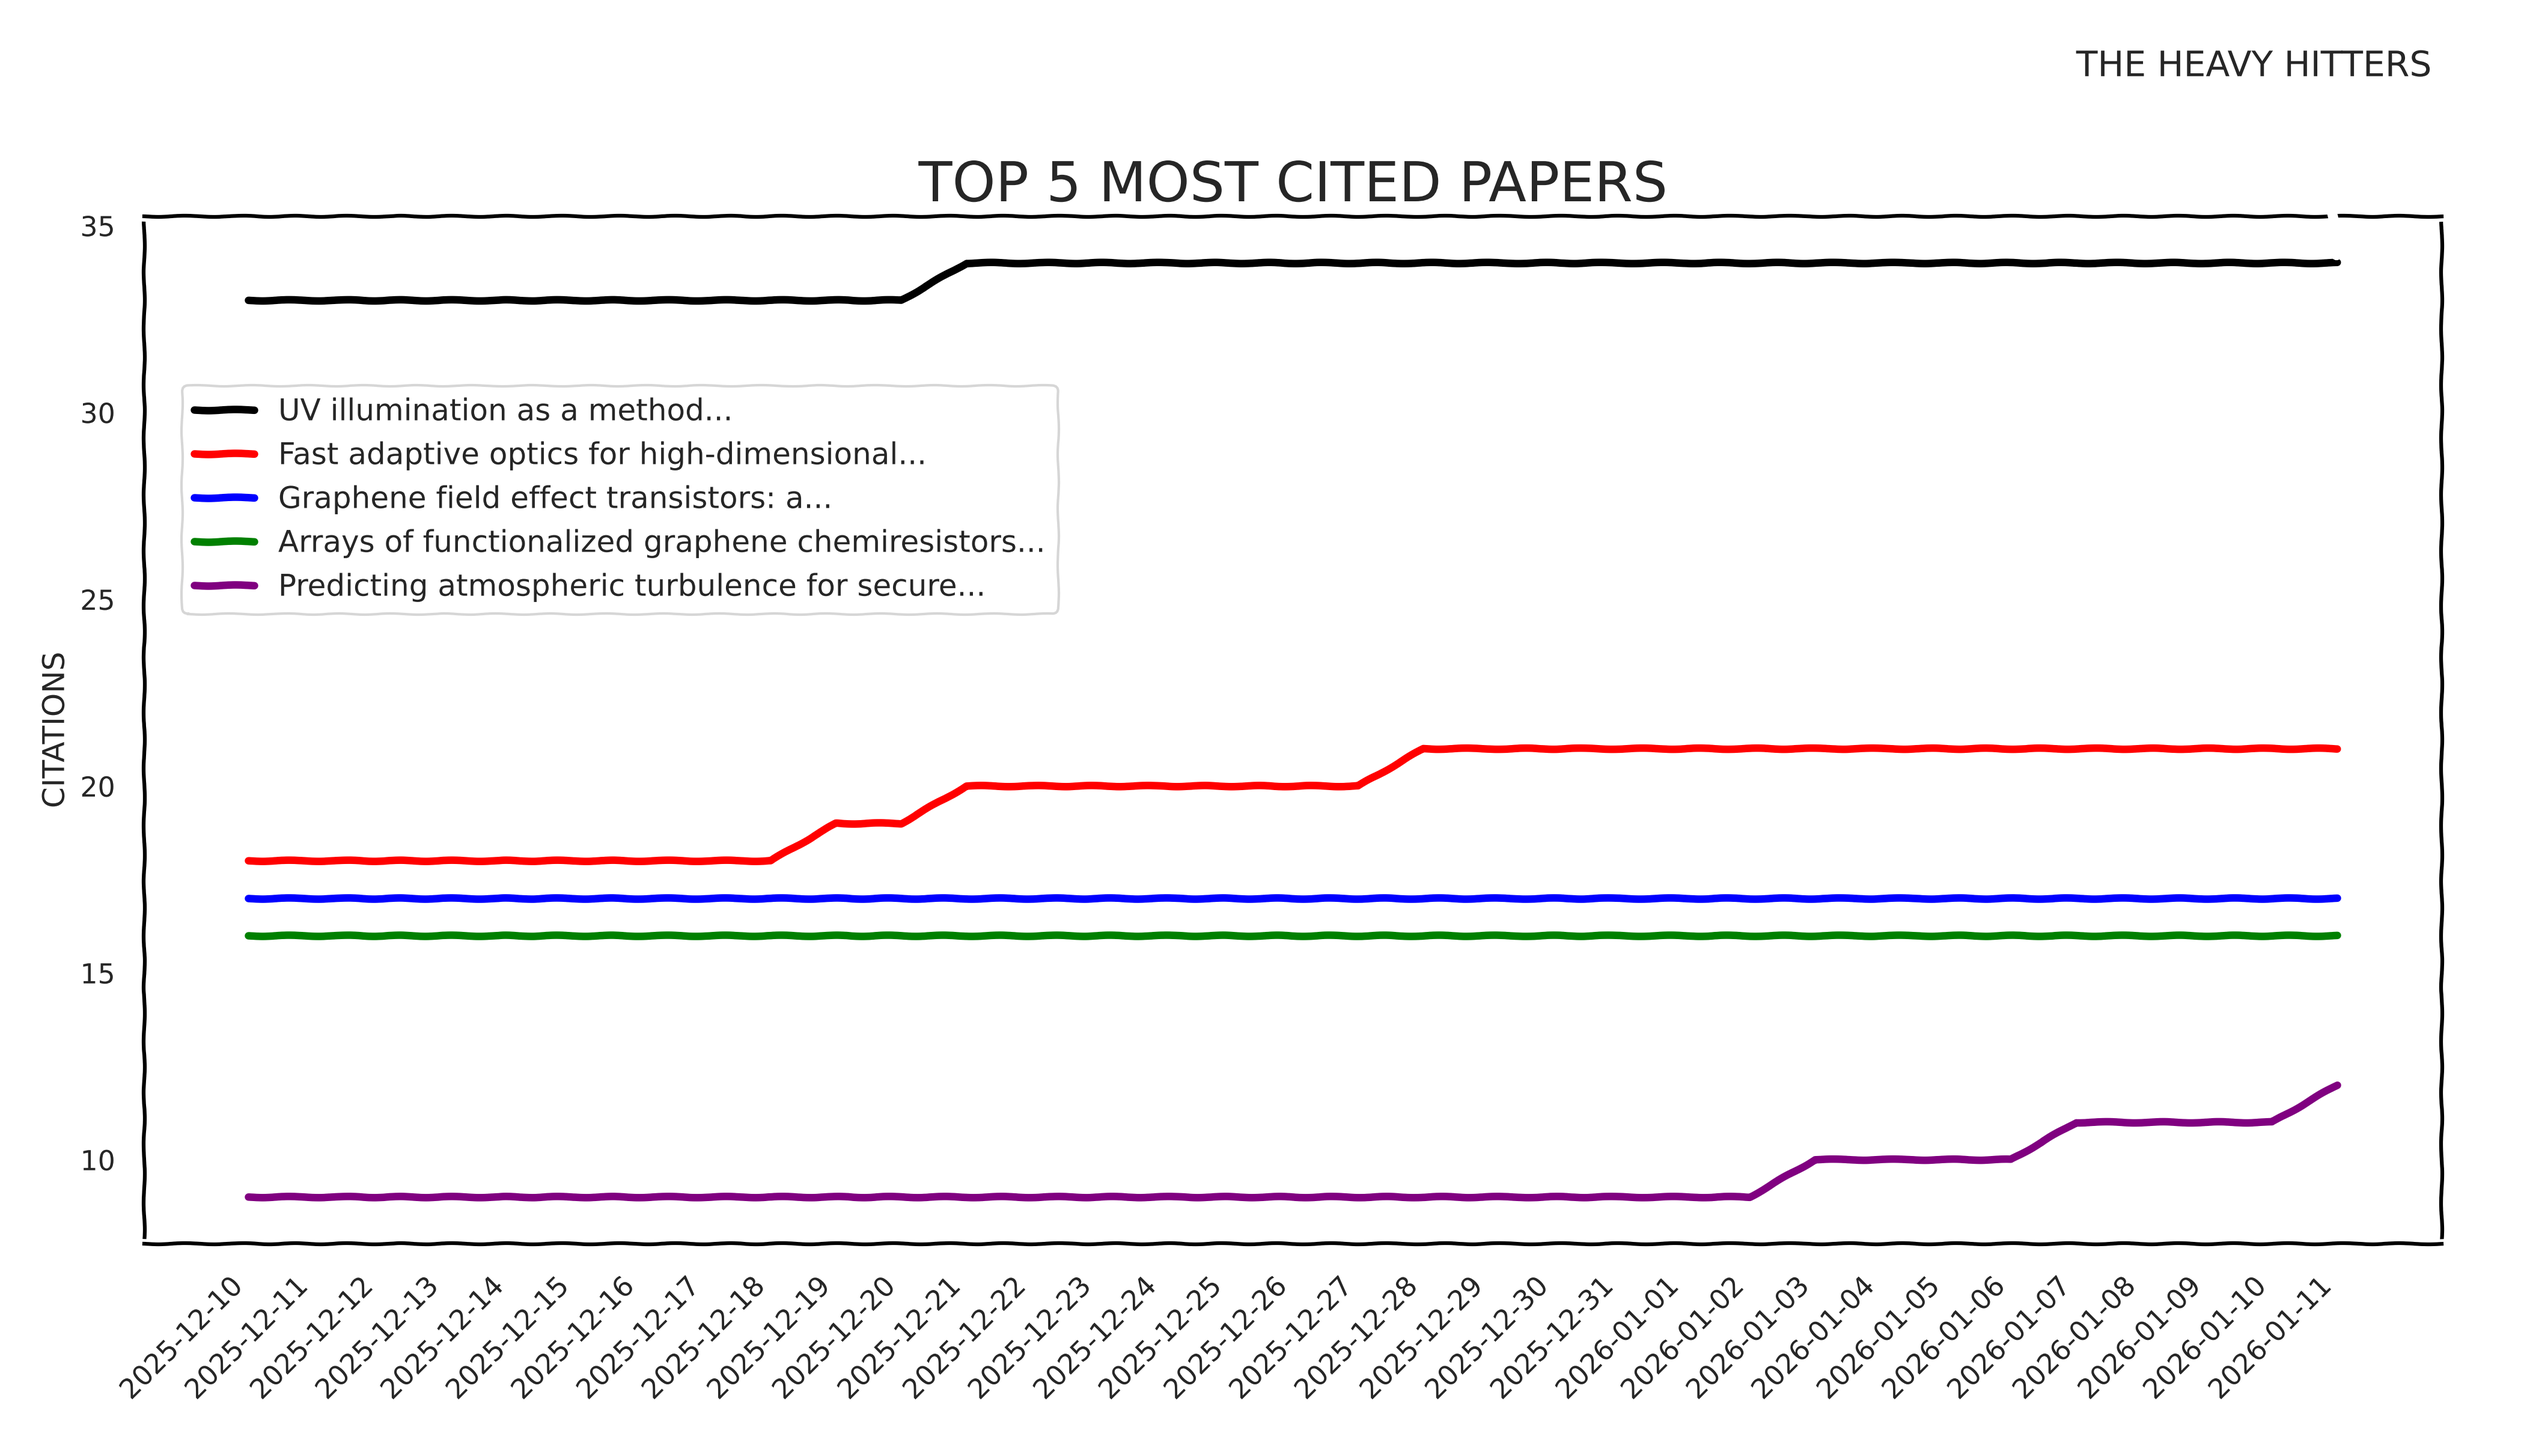
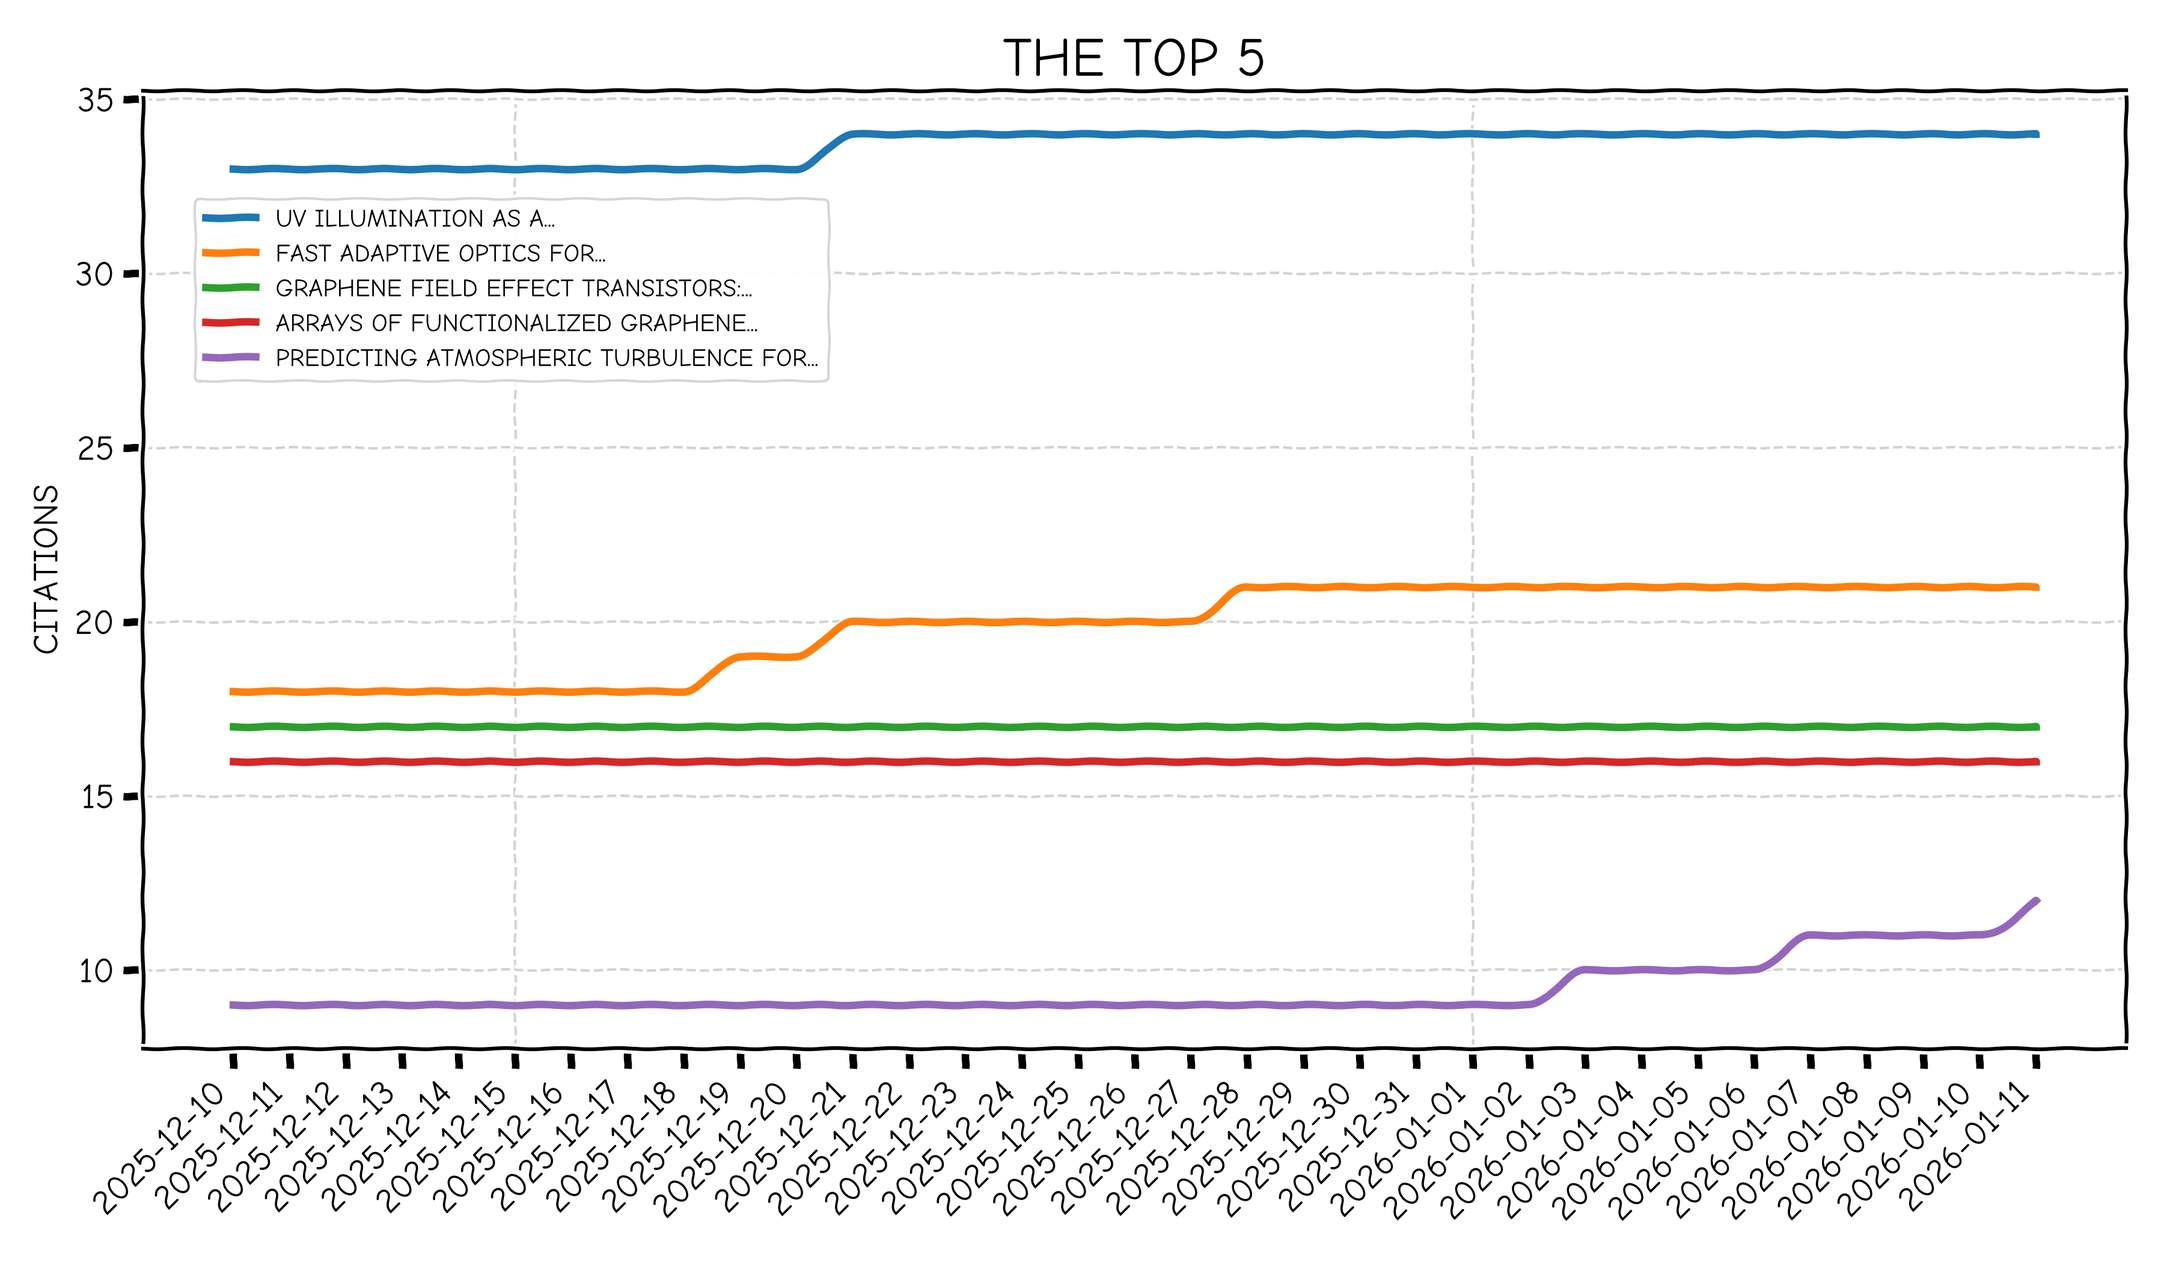
Removed redundant plots and updated plotting functions. added interpolation

diff --git a/plotting.py b/plotting.py
@@ -1,153 +1,126 @@
+import os
+import logging
 import pandas as pd
 import matplotlib.pyplot as plt
-import seaborn as sns 
-import os
-from datetime import date
-from matplotlib.ticker import MaxNLocator
-import logging
 import matplotlib.font_manager as fm
-
-# Silence font warnings
-logging.getLogger('matplotlib.font_manager').setLevel(logging.ERROR)
+import numpy as np
+from scipy.interpolate import PchipInterpolator
 
 # --- Configuration ---
-CSV_FILE = "citations_history.csv"
-WIDE_CSV_FILE = "citations_wide_format.csv"
-PLOT_FILE = "top_10_citations_plot.png"
-CUMULATIVE_PLOT_FILE = "cumulative_citations_plot.png"
-XKCD_PLOT_FILE = "cumulative_citations_xkcd.png"
-XKCD_TOP_5_FILE = "top_5_citations_xkcd.png"
-# ---------------------
+PATHS = {
+    "input": "citations_history.csv",
+    "wide_output": "citations_wide_format.csv",
+    "xkcd_cumulative": "cumulative_citations_xkcd.png",
+    "xkcd_top_5": "top_5_citations_xkcd.png"
+}
 
-def create_wide_csv():
-    if not os.path.exists(CSV_FILE):
-        print(f"Error: Long format file '{CSV_FILE}' not found. Run scrape.py first.")
-        return None
+# Standardized Figure Size for GitHub Display
+FIG_SIZE = (12, 7)
+DPI = 300
 
-    try:
-        df_long = pd.read_csv(CSV_FILE)
-        df_long['Date'] = df_long['Date'].astype(str)
-        df_wide = df_long.pivot(index='Title', columns='Date', values='Citations')
-        df_wide.to_csv(WIDE_CSV_FILE)
-        print(f"Successfully created WIDE format file: {WIDE_CSV_FILE}")
-        return df_wide
-    except Exception as e:
-        print(f"CRITICAL ERROR during file creation: {e}")
-        return None
+logging.basicConfig(level=logging.INFO, format='%(levelname)s: %(message)s')
+logging.getLogger('matplotlib.font_manager').setLevel(logging.ERROR)
 
-def get_best_xkcd_font():
-    """Returns the best available hand-drawn font name."""
-    available_fonts = [f.name for f in fm.fontManager.ttflist]
-    for f in ["Humor Sans", "Comic Neue", "xkcd", "Comic Sans MS"]:
-        if f in available_fonts:
-            return f
-    return "sans-serif"
+def get_data():
+    if not os.path.exists(PATHS["input"]):
+        logging.error(f"Source file {PATHS['input']} not found.")
+        return None, None
+    df_long = pd.read_csv(PATHS["input"])
+    df_long['Date'] = df_long['Date'].astype(str)
+    df_wide = df_long.pivot(index='Title', columns='Date', values='Citations')
+    df_wide.to_csv(PATHS["wide_output"])
+    df_cumulative = df_wide.T.fillna(0).sum(axis=1)
+    return df_wide, df_cumulative
 
-def generate_xkcd_cumulative_plot(df_cumulative):
-    try:
-        chosen_font = get_best_xkcd_font()
-        with plt.xkcd():
-            plt.rcParams.update({'font.family': chosen_font})
-            plt.figure(figsize=(12, 6))
-            plt.plot(range(len(df_cumulative)), df_cumulative['Cumulative Citations'].values, color='#007400', linewidth=5)
-            plt.title('LUKAS SCARFE: TOTAL CITATIONS', fontsize=25)
-            plt.xticks(range(len(df_cumulative)), df_cumulative.index, rotation=45, ha='right')
-            plt.tight_layout()
-            plt.savefig(XKCD_PLOT_FILE, dpi=300)
-            plt.close()
-            print(f"Successfully saved XKCD-style cumulative plot to {XKCD_PLOT_FILE}")
-    except Exception as e:
-        print(f"Error generating XKCD cumulative plot: {e}")
+def get_xkcd_font():
+    candidates = ["Humor Sans", "Comic Neue", "xkcd", "Comic Sans MS"]
+    available = {f.name for f in fm.fontManager.ttflist}
+    return next((f for f in candidates if f in available), "sans-serif")
 
-def generate_xkcd_top_5_plot(df_wide):
-    """Generates an XKCD-style plot for the top 5 papers."""
-    try:
-        chosen_font = get_best_xkcd_font()
+def format_title(title, max_words=4):
+    words = title.split()
+    return " ".join(words[:max_words]).upper() + ("..." if len(words) > max_words else "")
+
+def add_custom_grids(ax, x_labels):
+    """Adds light grey y-grid and vertical lines for the 1st and 15th."""
+    ax.grid(axis='y', color='lightgrey', linestyle='--', linewidth=1, zorder=0)
+    for i, date in enumerate(x_labels):
+        day = date.split('-')[-1].zfill(2)
+        if day == '01' or day == '15':
+            ax.axvline(x=i, color='lightgrey', linestyle='--', linewidth=1, zorder=0)
+
+def smooth_monotonic(x, y):
+    """Interpolates using PCHIP to prevent overshoot/oscillation."""
+    x_new = np.linspace(min(x), max(x), 500)
+    pchip = PchipInterpolator(x, y)
+    y_smooth = pchip(x_new)
+    return x_new, y_smooth
+
+def plot_cumulative_xkcd(df_cumulative):
+    with plt.xkcd():
+        fig, ax = plt.subplots(figsize=FIG_SIZE)
+        plt.rcParams.update({'font.family': get_xkcd_font()})
+        
+        x_values = np.array(range(len(df_cumulative)))
+        y_values = df_cumulative.values
+        x_smooth, y_smooth = smooth_monotonic(x_values, y_values)
+        
+        ax.plot(x_smooth, y_smooth, color='green', linewidth=4, zorder=3)
+        
+        add_custom_grids(ax, df_cumulative.index)
+        
+        ax.set_title('TOTAL CITATIONS', fontsize=22)
+        ax.set_xticks(list(x_values))
+        ax.set_xticklabels(df_cumulative.index, rotation=45, ha='right')
+        ax.set_ylabel('CITATIONS')
+        
+        plt.tight_layout()
+        plt.savefig(PATHS["xkcd_cumulative"], dpi=DPI)
+        plt.close()
+
+def plot_top_5_xkcd(df_wide):
+    with plt.xkcd():
+        fig, ax = plt.subplots(figsize=FIG_SIZE)
+        plt.rcParams.update({'font.family': get_xkcd_font()})
+        
         last_date = df_wide.columns[-1]
-        df_top_5 = df_wide.sort_values(by=last_date, ascending=False).head(5)
-        df_plot = df_top_5.T.fillna(0)
+        top_5 = df_wide.sort_values(by=last_date, ascending=False).head(5).T.fillna(0)
+        top_5.columns = [format_title(col) for col in top_5.columns]
         
-        # Format titles: Get first 5 words
-        new_column_names = []
-        for col in df_plot.columns:
-            words = col.split()
-            short_name = " ".join(words[:5])
-            if len(words) > 5:
-                short_name += "..."
-            new_column_names.append(short_name)
+        x_values = np.array(range(len(top_5)))
+        colours = plt.get_cmap('tab10').colors
+
+        for i, col in enumerate(top_5.columns):
+            y_values = top_5[col].values
+            x_smooth, y_smooth = smooth_monotonic(x_values, y_values)
+            
+            ax.plot(x_smooth, y_smooth, 
+                    label=col, 
+                    linewidth=3, 
+                    color=colours[i % len(colours)],
+                    zorder=3)
+
+        add_custom_grids(ax, top_5.index)
+
+        ax.set_title('THE TOP 5', fontsize=22)
+        ax.set_xticks(list(x_values))
+        ax.set_xticklabels(top_5.index, rotation=45, ha='right')
+        ax.set_ylabel('CITATIONS')
         
-        df_plot.columns = new_column_names
+        # Legend placement consistent and safe from curves
+        ax.legend(loc='upper left', bbox_to_anchor=(0.02, 0.9), fontsize=10, frameon=True)
 
-        with plt.xkcd():
-            plt.rcParams.update({'font.family': chosen_font})
-            plt.figure(figsize=(14, 8)) # Increased size for better legend fit
-            
-            colors = ['black', 'red', 'blue', 'green', 'purple']
-            
-            for i, col in enumerate(df_plot.columns):
-                plt.plot(range(len(df_plot)), df_plot[col], label=col, linewidth=3, color=colors[i % len(colors)])
-
-            plt.title('TOP 5 MOST CITED PAPERS', fontsize=22)
-            plt.xticks(range(len(df_plot)), df_plot.index, rotation=45, ha='right')
-            plt.ylabel('CITATIONS')
-            
-            # Larger legend placed slightly outside to avoid overlapping lines
-            plt.legend(loc='upper left', fontsize=12, bbox_to_anchor=(0.01, 0.85), frameon=True)
-            
-            plt.annotate('THE HEAVY HITTERS', xy=(len(df_plot)-1, df_plot.iloc[-1].max()), 
-                         xytext=(len(df_plot)-5, df_plot.iloc[-1].max() + 5),
-                         arrowprops=dict(arrowstyle='->', connectionstyle='arc3,rad=-0.2'))
-
-            plt.tight_layout()
-            plt.savefig(XKCD_TOP_5_FILE, dpi=300)
-            plt.close()
-            print(f"Successfully saved XKCD-style Top 5 plot to {XKCD_TOP_5_FILE}")
-    except Exception as e:
-        print(f"Error generating XKCD Top 5 plot: {e}")
-
-def generate_reports(df_wide):
-    if df_wide is None: return
-    
-    try:
-        # --- Professional Plots ---
-        sns.set_theme(style="whitegrid") 
-        last_date_column = df_wide.columns[-1] 
-        df_sorted = df_wide.sort_values(by=last_date_column, ascending=False)
-        df_top_10 = df_sorted.head(10)
-        df_plot = df_top_10.T.fillna(0)
-        df_plot.columns = [col[:25] for col in df_plot.columns]
-
-        # Top 10 Prof. Plot
-        plt.figure(figsize=(16, 6)) 
-        colors = sns.color_palette('viridis', n_colors=10)
-        for idx, (col, color) in enumerate(zip(df_plot.columns, colors)):
-            plt.plot(df_plot.index, df_plot[col], marker='o', linewidth=2, label=col, color=color)
-        plt.title('Lukas Scarfe Citations by Paper', fontsize=18, fontweight='bold', pad=20)
-        plt.legend(bbox_to_anchor=(0.05, 0.9), loc='upper left', fontsize=6, frameon=True, shadow=True)
-        plt.xticks(rotation=45, ha='right')
-        plt.gca().yaxis.set_major_locator(MaxNLocator(integer=True))
         plt.tight_layout()
-        plt.savefig(PLOT_FILE, dpi=300) 
+        plt.savefig(PATHS["xkcd_top_5"], dpi=DPI)
         plt.close()
 
-        # Cumulative Prof. Plot
-        df_cumulative = df_wide.T.fillna(0)
-        df_cumulative['Cumulative Citations'] = df_cumulative.sum(axis=1)
-        plt.figure(figsize=(16, 6))
-        plt.plot(range(len(df_cumulative)), df_cumulative['Cumulative Citations'].values, marker='o', color='#440154')
-        plt.title('Lukas Scarfe Cumulative Citations Over Time', fontsize=20, fontweight='bold')
-        plt.xticks(range(len(df_cumulative)), df_cumulative.index, rotation=45, ha='right')
-        plt.tight_layout()
-        plt.savefig(CUMULATIVE_PLOT_FILE, dpi=300)
-        plt.close()
+def main():
+    df_wide, df_cumulative = get_data()
+    if df_wide is not None:
+        logging.info("Generating matching, smoothed XKCD reports...")
+        plot_cumulative_xkcd(df_cumulative)
+        plot_top_5_xkcd(df_wide)
+        logging.info("Done!")
 
-        # --- XKCD Plots ---
-        generate_xkcd_cumulative_plot(df_cumulative)
-        generate_xkcd_top_5_plot(df_wide)
-
-    except Exception as e:
-        print(f"CRITICAL ERROR during report generation: {e}")
-        
 if __name__ == "__main__":
-    wide_data = create_wide_csv()
-    generate_reports(wide_data)
+    main()
